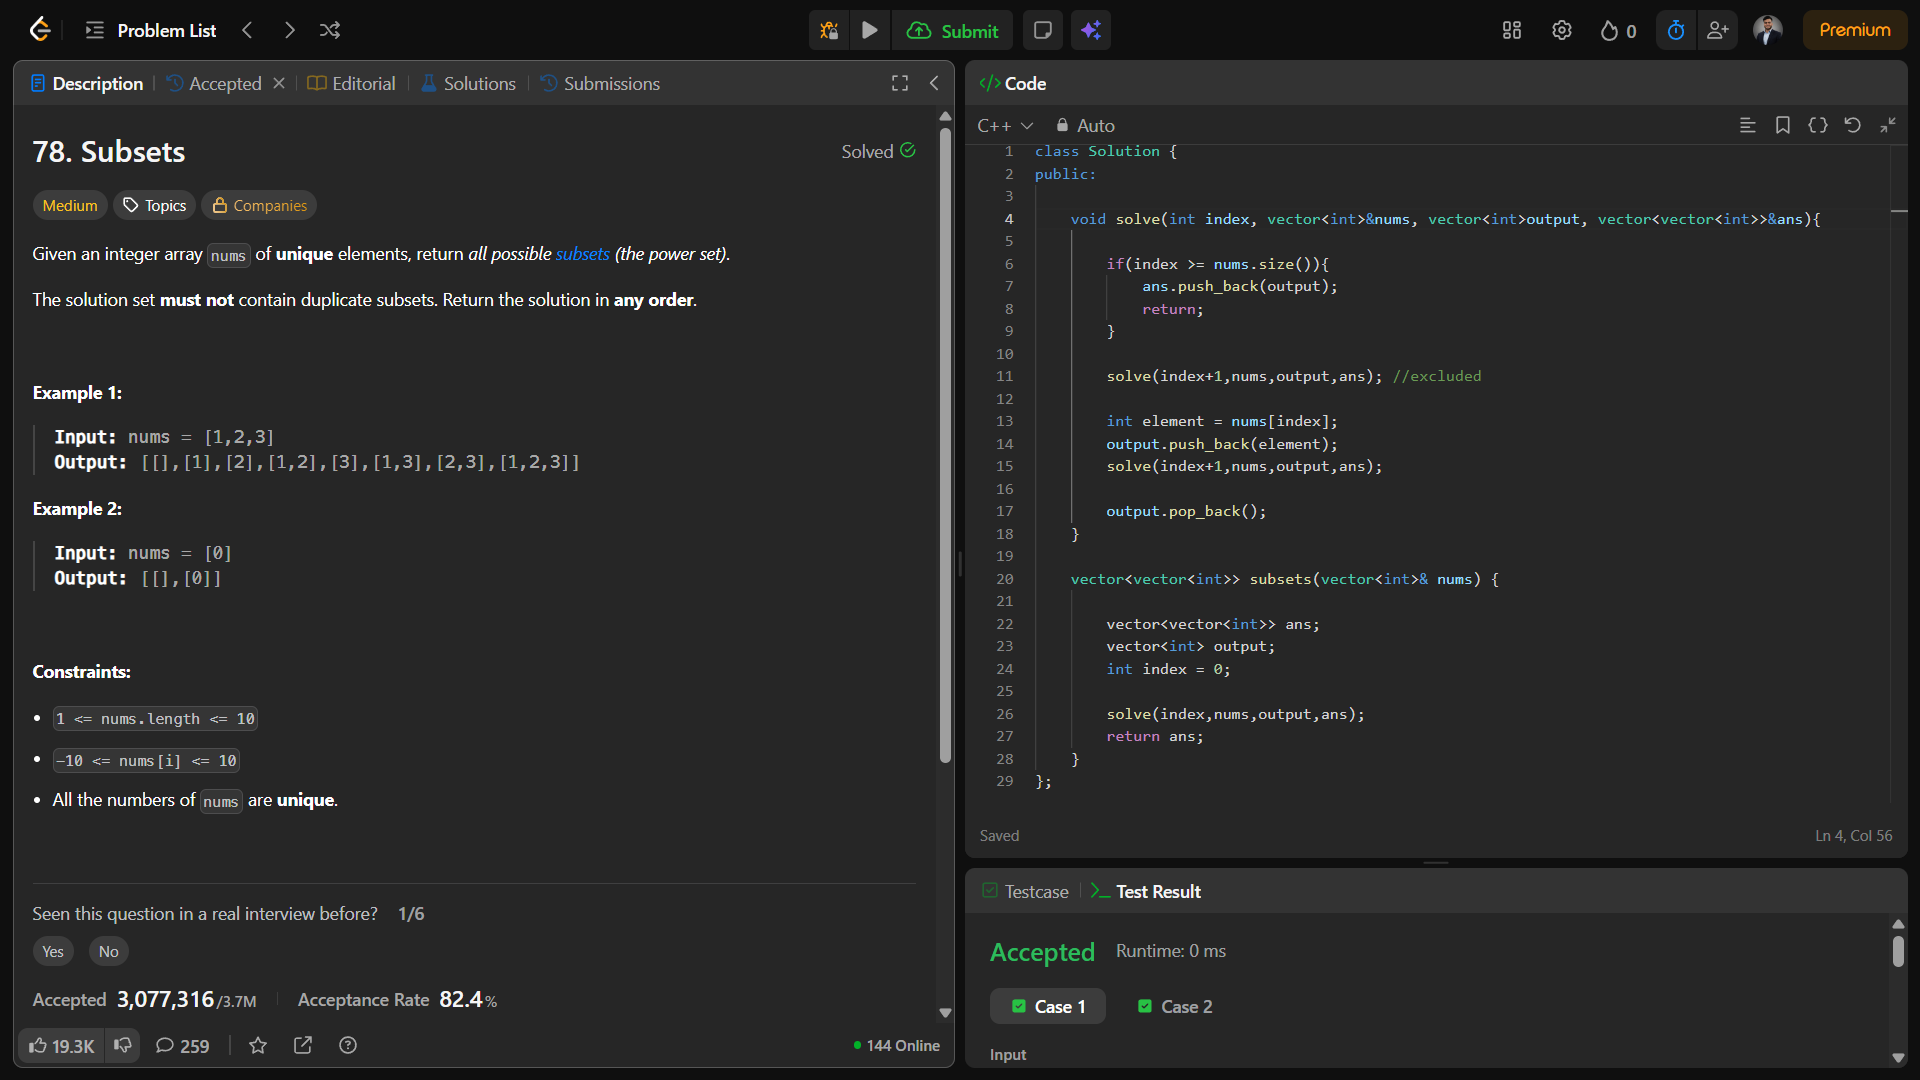
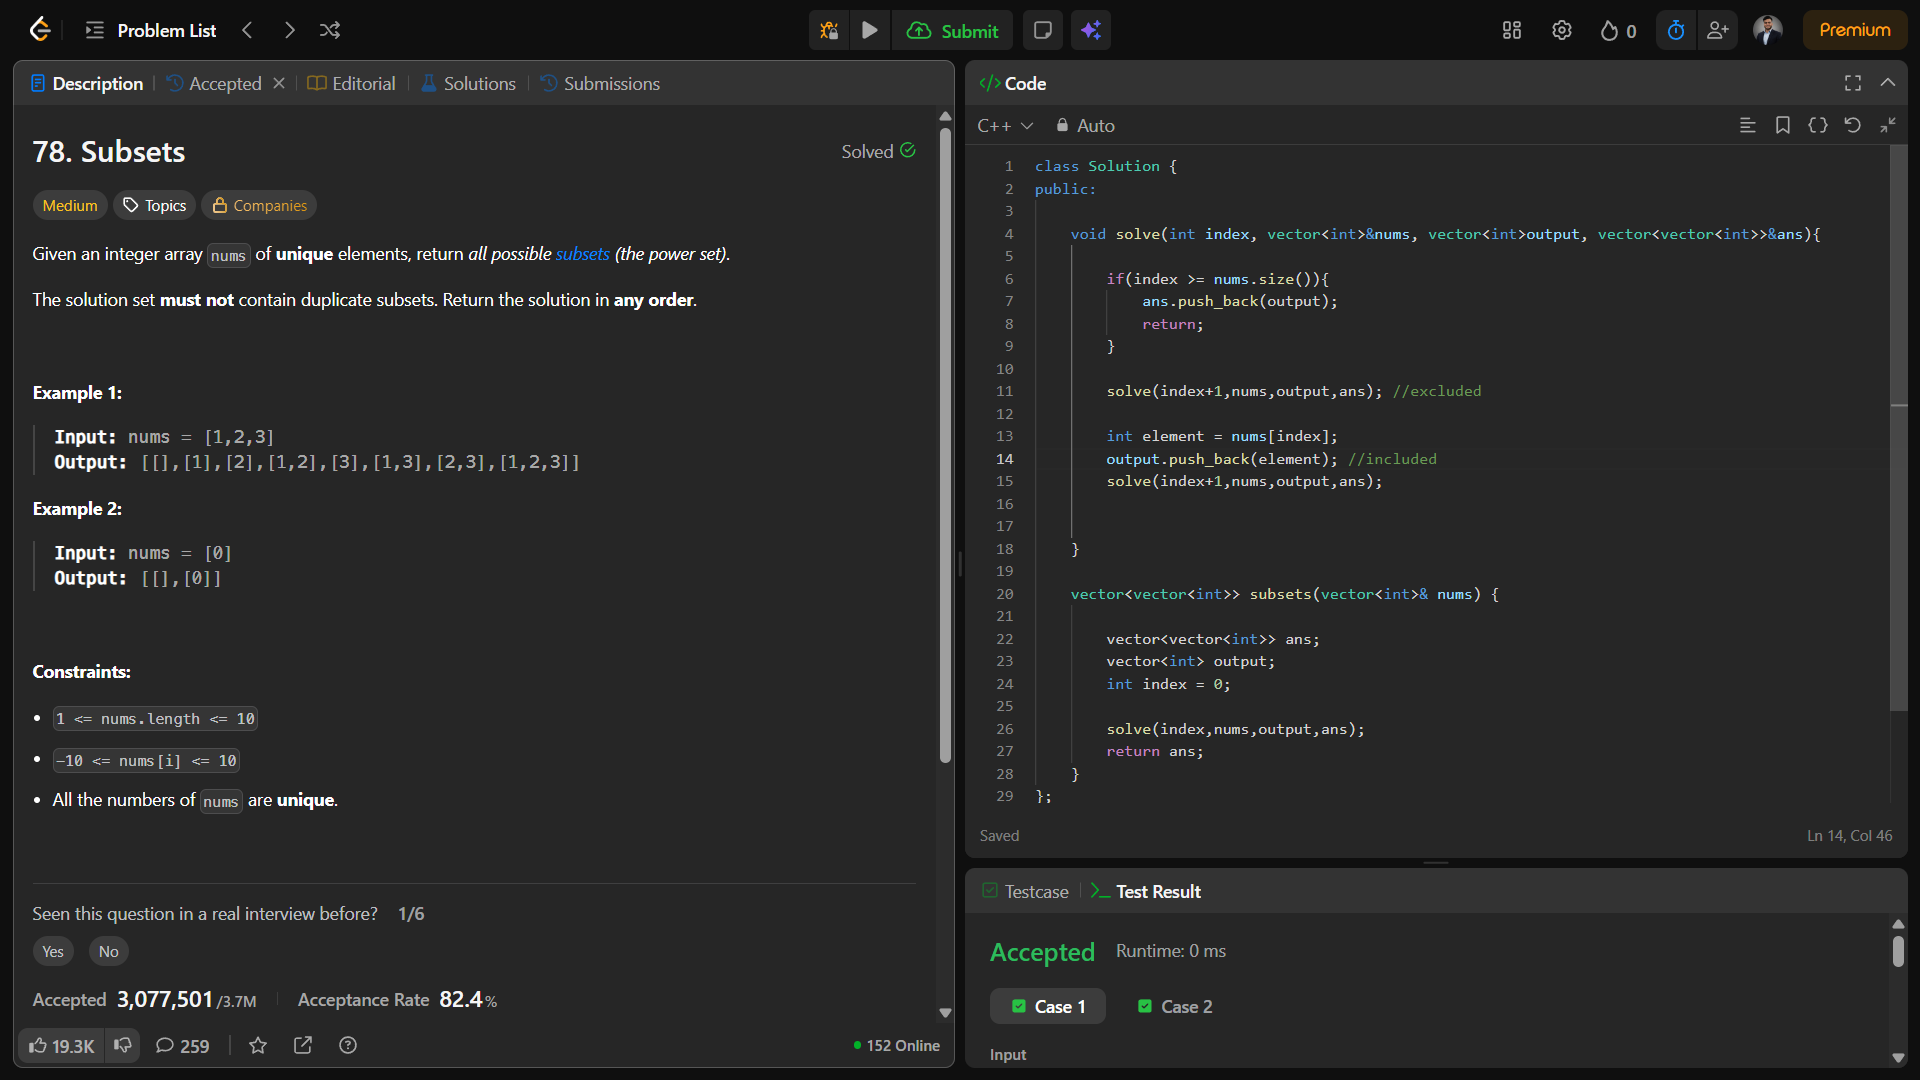
Subsets Leetcode-78

diff --git a/SDE sheet/subsets.cpp b/SDE sheet/subsets.cpp
@@ -16,10 +16,10 @@ public:
         solve(index+1,nums,output,ans); //excluded
         
         int element = nums[index];
-        output.push_back(element);
+        output.push_back(element); // included
         solve(index+1,nums,output,ans);
         
-        output.pop_back();
+        
     }
 
     vector<vector<int>> subsets(vector<int>& nums) {